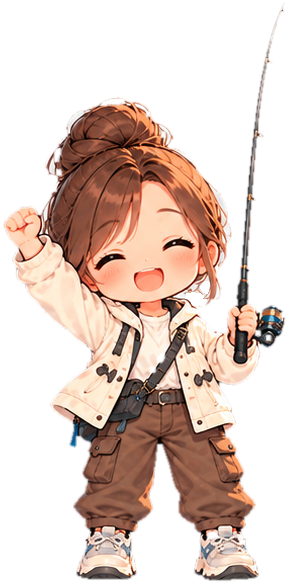
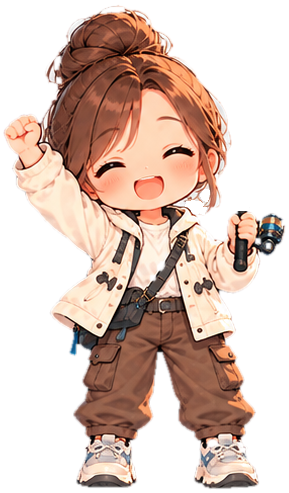
낚싯대와 줄을 모두 게임이 그린다 (찌낚시 대 모양 따르기)
- 모든 낚시 포즈 그림에서 손 위 대를 지우고 손잡이·방향·길이를 poses.json 에
- 빠른 액션: 아래 55% 는 곧고 위만 휜다. 당기면 대 끝 방향이 줄 쪽으로 이어진다
- 가이드 고리(대 아래, 끝으로 갈수록 작게)와 릴에서 고리를 거쳐 끝 고리로 나가는 원줄
- 느슨한 줄은 아래로 처지고 바람에 살랑, 팽팽하면 곧게
- 던지기 전에는 대 끝에 찌 채비가 매달려 흔들린다
- 대 몸통은 여울 그림 아래 층(FishingRodView)에 그려 손이 대를 쥔다

Claude-Session: https://claude.ai/code/session_01DoqJrkBDmBHtwhfXgYT1Wo

diff --git a/godot/scripts/Ui/FishingField.cs b/godot/scripts/Ui/FishingField.cs
@@ -78,9 +78,9 @@ namespace Hanjeopsi.App.Ui
         public bool RunWarn;
         public bool Bracing;
 
-        // 낚싯줄. 낚싯대는 SD 그림에 있고, 화면이 그림 속 대 끝 자리를 RodTip 에 넣어 준다
+        // 낚싯대 끝 (논리 좌표). 대를 그리면(RodDrawn) 여기서 계산하고, 아니면 화면이 그림 속 대 끝을 넣어 준다
         public Vector2 RodTip;
-        // 감기·버티기 포즈는 그림에서 대를 지웠다. 여기서 손잡이부터 그리고 텐션만큼 물고기 쪽으로 휜다 (RodTip 은 그린 대 끝)
+        // 포즈 그림에서는 대를 지웠다. 손잡이·방향·길이로 여기서 그리고 텐션만큼 물고기 쪽으로 휜다
         public bool RodDrawn;
         public Vector2 RodGrip;
         public Vector2 RodDir;
@@ -195,6 +195,7 @@ namespace Hanjeopsi.App.Ui
                 _trailTimer = 0.05f;
                 _trail.RemoveAt(_trail.Count - 1);
             }
+            ComputeRod();
             QueueRedraw();
         }
 
@@ -223,7 +224,6 @@ namespace Hanjeopsi.App.Ui
             foreach (var r in _rings) DrawRing(r);
             if (ShadowVisible) DrawShadow();
             if (BobberVisible) DrawBobber();
-            if (RodDrawn) DrawRod();
             DrawLine();
             if (ShadowVisible && RunDir != 0) DrawRunArrow();
             if (ShadowVisible && ShowStamina) DrawStamina();
@@ -574,104 +574,218 @@ namespace Hanjeopsi.App.Ui
             }
         }
 
-        /// <summary>
-        /// 낚싯대: 손잡이에서 뻗어 나가다 끝이 줄 쪽으로 휜다. 텐션이 셀수록 크게 휘고(활처럼), 위험하면 떨린다.
-        /// 끝 자리를 RodTip 에 넣어 줄이 거기서 나가게 한다
-        /// </summary>
-        private void DrawRod()
+        // ───────── 낚싯대와 줄 ─────────
+        //
+        // 대와 줄은 그림에 넣지 않고 여기서 그린다 (그림 속 가는 대 끝은 줄이면 사라져 줄이 허공에서 나왔다).
+        // 실제 찌낚시 대를 따른다:
+        // - 빠른 액션: 손잡이 쪽 절반 남짓은 곧고 위쪽만 휜다. 당기면 대 끝이 줄 쪽으로 휘어 줄과 매끈하게 이어진다
+        // - 가이드 고리는 대 아래(땅 쪽)에 달리고 끝으로 갈수록 작다. 원줄은 릴에서 고리들을 거쳐 끝 고리로 나간다
+        // - 느슨한 줄은 대 끝에서 아래로 처지고(바람에 살랑), 물고기가 당기면 곧게 선다
+        // - 던지기 전에는 대 끝에 찌 채비가 매달려 흔들린다
+        // 대 몸통은 여울 그림 아래(RodView)에 그려 손이 대를 쥔 것처럼 보이고, 대 끝에서 나가는 줄은 바다 위(여기)에 그린다
+
+        /// <summary>던지기 전: 대 끝에 찌가 매달려 흔들린다</summary>
+        public bool Dangle;
+
+        private readonly Vector2[] _rodPts = new Vector2[RodSegs + 1];
+        private bool _rodReady;
+        private const int RodSegs = 28;
+        /// <summary>가이드 고리 자리 (대 위 비율). 마지막은 끝 고리</summary>
+        private static readonly float[] GuideAt = { 0.3f, 0.45f, 0.58f, 0.7f, 0.8f, 0.89f, 1f };
+        private readonly Vector2[] _guideRing = new Vector2[GuideAt.Length];
+        private Vector2 _reelAt;
+
+        /// <summary>여울 그림 바로 아래에 끼울 대 그림 (ArtStage 안, 같은 좌표)</summary>
+        public Control MakeRodView()
         {
+            var v = new FishingRodView(this);
+            v.SetAnchorsAndOffsetsPreset(LayoutPreset.FullRect);
+            return v;
+        }
+
+        /// <summary>대 모양을 계산한다 (그리기 전에 매 프레임). 끝 자리를 RodTip 에 넣어 줄이 거기서 나가게 한다</summary>
+        private void ComputeRod()
+        {
+            _rodReady = false;
+            if (!RodDrawn || _stage == null || RodLen <= 0) return;
             float b = Mathf.Clamp(Bend, 0, 1.1f);
             var g = RodGrip;
             // 줄이 가는 쪽 (없으면 대 방향)
             var t = LineTo.HasValue ? (LineTo.Value - g).Normalized() : RodDir;
-            // 대 전체를 물고기 쪽으로 돌려 잡는다 (최대 35도). 손잡이 이음매는 그림 속 손에 묻힌다
+            // 당길 때는 대 전체를 물고기 쪽으로 조금 돌려 잡는다 (최대 35도)
             float turn = Mathf.Clamp(RodDir.AngleTo(t), -0.61f, 0.61f);
-            var d0 = RodDir.Rotated(turn * (Fighting ? 0.85f : 0.6f));
-            // 텐션 0 이어도 낚싯대 무게로 끝이 조금 숙인다
-            var droop = new Vector2(d0.X * 0.8f, d0.Y * 0.8f + 0.6f).Normalized();
-            // 팽팽할수록 대 끝이 물고기 쪽으로 활처럼 휜다 (끝에서 줄이 꺾이지 않게)
-            float k = Fighting ? 0.45f + 0.5f * Mathf.Min(1, b) : 0.3f;
-            var tipDir = droop.Lerp(t, k).Normalized();
-            float shake = (Fighting && b > 0.85f ? 0.025f : 0) + 0.07f * RodKick;
+            var d0 = RodDir.Rotated(turn * (Fighting ? 0.85f : 0.35f));
+            // 대 무게로 끝이 살짝 숙인다 (화면 아래 쪽)
+            var droop = (d0 + new Vector2(0, 0.28f)).Normalized();
+            // 팽팽할수록 대 끝이 줄 쪽으로 휜다. 찌를 띄워 둔 채 기다릴 때도 줄 무게만큼 조금
+            float k = Fighting ? 0.3f + 0.6f * Mathf.Min(1, b) : LineTo.HasValue ? 0.12f : 0;
+            var tipDir = droop.Slerp(t, k);
+            float shake = (Fighting && b > 0.85f ? 0.03f : 0) + 0.08f * RodKick;
             if (shake > 0) tipDir = tipDir.Rotated(Mathf.Sin(_time * 55) * shake);
-            float len = RodLen * (1 - 0.16f * Mathf.Min(1, b));
-            var tip = g + (d0 * 0.4f + tipDir * 0.6f).Normalized() * len;
-            var ctrl = g + d0 * len * 0.55f;
+            // 휠수록 끝이 손 쪽으로 당겨진다
+            float len = RodLen * (1 - 0.1f * Mathf.Min(1, b));
+            var mid = g + d0 * len * 0.55f;
+            var tip = mid + (d0 + tipDir).Normalized() * len * 0.45f;
             RodTip = tip;
+            // 손 안쪽에서 시작한다 (여울 그림 아래라 손에 가린다)
+            var butt = g - d0 * len * 0.1f;
+            var p0 = P(butt);
+            var p1 = P(mid);
+            var p2 = P(tip - tipDir * len * 0.2f);
+            var p3 = P(tip);
+            for (int i = 0; i <= RodSegs; i++)
+            {
+                float s = (float)i / RodSegs;
+                float r = 1 - s;
+                _rodPts[i] = r * r * r * p0 + 3 * r * r * s * p1 + 3 * r * s * s * p2 + s * s * s * p3;
+            }
+            // 가이드 고리: 대 아래(땅 쪽)에 짧은 다리로 달린다
+            float u = K / 2.4f;
+            for (int j = 0; j < GuideAt.Length; j++)
+            {
+                float f = GuideAt[j];
+                float fi = f * RodSegs;
+                int i = Mathf.Clamp((int)fi, 0, RodSegs - 1);
+                var at = _rodPts[i].Lerp(_rodPts[i + 1], fi - i);
+                _guideRing[j] = at + Down(_rodPts[i + 1] - _rodPts[i]) * (j == GuideAt.Length - 1 ? 0 : Mathf.Lerp(5.5f, 2.2f, f) * u);
+            }
+            // 릴은 손 아래, 대 아래쪽에 달려 있다 (그림 속 릴 자리 근처)
+            _reelAt = P(g - d0 * len * 0.05f) + Down(p1 - p0) * 9 * u;
+            _rodReady = true;
+        }
 
-            const int n = 24;
-            // 그림 속 손잡이 안쪽에서 시작해 이음매가 보이지 않게 한다
-            var butt = g - d0 * len * 0.05f;
-            var pts = Bezier(P(butt), P(ctrl), P(tip), n);
+        /// <summary>대 마디 방향에 수직인 두 쪽 중 화면 아래(땅) 쪽</summary>
+        private static Vector2 Down(Vector2 seg)
+        {
+            var n = new Vector2(-seg.Y, seg.X).Normalized();
+            return n.Y >= 0 ? n : -n;
+        }
+
+        /// <summary>대 몸통, 가이드 고리, 고리를 지나는 원줄 (RodView 가 여울 그림 아래에 그린다)</summary>
+        public void PaintRod(CanvasItem c)
+        {
+            if (!_rodReady) return;
             float u = K / 2.4f;
             var edge = new Color("1c1714");
             var body = new Color("3a322b");
-            // 굵은 손잡이 쪽에서 가는 끝으로 (조각마다 굵기를 줄인다). 처음 한 토막은 손잡이처럼 굵다
-            for (int i = 0; i < n; i++)
+            var gold = new Color("c9a24a");
+            // 손잡이 쪽 굵고 끝은 가늘다. 처음 한 토막은 코르크 손잡이처럼 굵다
+            for (int i = 0; i < RodSegs; i++)
             {
-                float f = (float)i / n;
-                float w = f < 0.1f ? 9f * u : Mathf.Lerp(7f, 1.8f, (f - 0.1f) / 0.9f) * u;
-                DrawLine(pts[i], pts[i + 1], edge, w + 1.8f * u, true);
-                DrawLine(pts[i], pts[i + 1], body, w, true);
+                float f = (float)i / RodSegs;
+                float w = f < 0.1f ? 8.5f * u : Mathf.Lerp(6.4f, 1.5f, (f - 0.1f) / 0.9f) * u;
+                c.DrawLine(_rodPts[i], _rodPts[i + 1], edge, w + 1.8f * u, true);
+                c.DrawLine(_rodPts[i], _rodPts[i + 1], body, w, true);
             }
-            // 손잡이 끝 금빛 고리 (손잡이와 대가 이어지는 자리)
-            int joint = Mathf.Clamp((int)(0.1f * n), 1, n);
-            DrawCircle(pts[joint], 4.6f * u, new Color("c9a24a"));
-            // 위쪽 빛 한 줄
-            for (int i = 3; i < n - 2; i++)
+            int joint = Mathf.Clamp((int)(0.1f * RodSegs), 1, RodSegs);
+            c.DrawCircle(_rodPts[joint], 4.4f * u, gold);
+            // 위쪽(빛 받는 쪽) 가는 빛 한 줄
+            for (int i = 3; i < RodSegs - 2; i++)
             {
-                var dir = (pts[i + 1] - pts[i]).Normalized();
-                var off = new Vector2(dir.Y, -dir.X) * Mathf.Lerp(1.8f, 0.5f, (float)i / n) * u;
-                DrawLine(pts[i] + off, pts[i + 1] + off, new Color(1, 0.95f, 0.85f, 0.28f), 1.2f * u, true);
+                var d = _rodPts[i + 1] - _rodPts[i];
+                var off = -Down(d) * Mathf.Lerp(1.6f, 0.4f, (float)i / RodSegs) * u;
+                c.DrawLine(_rodPts[i] + off, _rodPts[i + 1] + off, new Color(1, 0.95f, 0.85f, 0.26f), 1.1f * u, true);
             }
-            // 가이드 링 (금빛 작은 고리)
-            foreach (float f in new[] { 0.32f, 0.5f, 0.68f, 0.84f, 0.96f })
+            // 원줄: 릴에서 고리들을 차례로 지나 끝 고리까지 (고리 사이는 곧은 줄)
+            var line = new Vector2[GuideAt.Length + 1];
+            line[0] = _reelAt;
+            for (int j = 0; j < GuideAt.Length; j++) line[j + 1] = _guideRing[j];
+            c.DrawPolyline(line, LineColor(0.85f), 1.2f * Mathf.Max(1, u), true);
+            // 고리: 대에서 내려온 짧은 다리와 금빛 고리
+            for (int j = 0; j < GuideAt.Length; j++)
             {
-                int i = Mathf.Clamp((int)(f * n), 0, n);
-                DrawArc(pts[i], Mathf.Lerp(3.2f, 1.6f, f) * u, 0, Mathf.Tau, 10, new Color("c9a24a"), 1.3f * u, true);
+                float f = GuideAt[j];
+                float fi = f * RodSegs;
+                int i = Mathf.Clamp((int)fi, 0, RodSegs - 1);
+                var on = _rodPts[i].Lerp(_rodPts[i + 1], fi - i);
+                float r = Mathf.Lerp(3.4f, 1.5f, f) * u;
+                if (j < GuideAt.Length - 1) c.DrawLine(on, _guideRing[j], gold, 1.1f * u, true);
+                c.DrawArc(_guideRing[j], r, 0, Mathf.Tau, 12, gold, 1.2f * u, true);
             }
         }
 
+        /// <summary>원줄 색 (형광빛 도는 흰 나일론). 위험하면 금빛을 지나 빨갛게</summary>
+        private Color LineColor(float alpha = 0.92f)
+        {
+            var white = new Color(1, 1, 0.94f, alpha);
+            if (!Fighting) return white;
+            float bend = Mathf.Clamp(Bend, 0, 1.1f);
+            var hot = new Color(1f, 0.82f, 0.36f, 1f);
+            var danger = new Color(1f, 0.35f, 0.3f, 1f);
+            return bend < 0.85f ? white.Lerp(hot, Mathf.Clamp((bend - 0.6f) / 0.25f, 0, 1)) : hot.Lerp(danger, Mathf.Clamp((bend - 0.85f) / 0.15f, 0, 1));
+        }
+
         /// <summary>
-        /// 낚싯줄. 느슨하면 크게 처져 흔들리고, 팽팽할수록 곧게 펴진다.
-        /// 릴링 중(Fighting) 위험 가까이 가면 줄이 파르르 떨리고 금빛을 지나 빨갛게 달아오른다
+        /// 대 끝에서 나가는 줄. 느슨하면 아래로 처져(바람에 살랑) 찌까지 늘어지고, 팽팽할수록 곧게 선다.
+        /// 릴링 중(Fighting) 위험 가까이 가면 줄이 파르르 떨리고 금빛을 지나 빨갛게 달아오른다.
+        /// 던지기 전에는 대 끝에 찌 채비가 매달려 흔들린다
         /// </summary>
         private void DrawLine()
         {
-            if (LineTo == null) return;
-            var tip = P(RodTip);
-            var to = P(LineTo.Value);
             float u = K / 2.4f;
+            var tip = P(RodTip);
+            if (LineTo == null)
+            {
+                if (Dangle && _rodReady) DrawDangle(tip, u);
+                return;
+            }
+            var to = P(LineTo.Value);
             float bend = Mathf.Clamp(Bend, 0, 1.1f);
-            float slackness = Mathf.Clamp(1 - bend / 0.55f, 0, 1);
-            // 처짐: 느슨하면 깊게, 팽팽하면 거의 없다. 느슨할 때는 바람에 살랑인다
-            float sag = (6 + 64 * slackness * slackness) * u + Mathf.Sin(_time * 2.2f) * 6 * slackness * u;
-            // 줄은 늘 아래로 처진다 (대 끝에서 위로 솟지 않게 물고기 쪽으로 늘어진다)
-            var mid = (tip + to) / 2 + new Vector2(0, sag + (to - tip).Length() * 0.04f * slackness);
-            var pts = Bezier(tip, mid, to, 28);
+            float slack = Fighting ? Mathf.Clamp(1 - bend / 0.55f, 0, 1) : 1;
+            float len = (to - tip).Length();
+            // 처짐 깊이: 느슨하면 줄 길이의 1할쯤, 팽팽하면 거의 없다
+            float sag = (len * 0.1f + 8 * u) * slack * slack + 1.5f * u;
+            float sway = Mathf.Sin(_time * 1.7f) * len * 0.025f * slack;
+            const int n = 32;
+            var pts = new Vector2[n + 1];
+            for (int i = 0; i <= n; i++)
+            {
+                float t = (float)i / n;
+                float hump = 4 * t * (1 - t);
+                pts[i] = tip.Lerp(to, t) + new Vector2(sway * hump, sag * hump);
+            }
             // 팽팽하면 줄이 파르르 떨린다 (가운데가 가장 크게)
             float shiver = Fighting ? Mathf.Max(Mathf.Clamp((bend - 0.62f) / 0.3f, 0, 1), 0.6f * RodKick) : 0;
             if (shiver > 0)
             {
                 var dir = (to - tip).Normalized();
                 var nrm = new Vector2(-dir.Y, dir.X);
-                for (int i = 1; i < pts.Length - 1; i++)
+                for (int i = 1; i < n; i++)
                 {
-                    float t = (float)i / (pts.Length - 1);
+                    float t = (float)i / n;
                     pts[i] += nrm * Mathf.Sin(_time * 70 + t * 9) * Mathf.Sin(t * Mathf.Pi) * 3.2f * shiver * u;
                 }
             }
-            // 색: 흰색 → 금빛 → 빨강
-            var white = new Color(1, 1, 1, 0.92f);
-            var hot = new Color(1f, 0.82f, 0.36f, 1f);
-            var danger = new Color(1f, 0.35f, 0.3f, 1f);
-            var col = !Fighting ? white : bend < 0.85f ? white.Lerp(hot, Mathf.Clamp((bend - 0.6f) / 0.25f, 0, 1)) : hot.Lerp(danger, Mathf.Clamp((bend - 0.85f) / 0.15f, 0, 1));
-            float width = (Fighting ? 2.6f + 1.2f * Mathf.Clamp(bend, 0, 1) : 2.2f) * Mathf.Max(1, u);
+            float width = (Fighting ? 2.2f + 1.2f * Mathf.Clamp(bend, 0, 1) : 1.8f) * Mathf.Max(1, u);
             // 밝은 물 위에서도 보이게 어두운 테두리를 먼저
-            DrawPolyline(pts, new Color(0.05f, 0.12f, 0.18f, 0.35f), width + 2.4f * u, true);
-            DrawPolyline(pts, col, width, true);
-            // 위험하면 줄 둘레가 은은히 빛난다
-            if (Fighting && bend >= 0.85f) DrawPolyline(pts, new Color(danger, 0.25f + 0.15f * Mathf.Sin(_time * 18)), width + 6 * u, true);
+            DrawPolyline(pts, new Color(0.05f, 0.12f, 0.18f, 0.32f), width + 2.2f * u, true);
+            DrawPolyline(pts, LineColor(), width, true);
+            if (Fighting && bend >= 0.85f) DrawPolyline(pts, new Color(1f, 0.35f, 0.3f, 0.25f + 0.15f * Mathf.Sin(_time * 18)), width + 6 * u, true);
+        }
+
+        /// <summary>던지기 전: 대 끝에서 찌 채비가 곧게 매달려 천천히 흔들린다</summary>
+        private void DrawDangle(Vector2 tip, float u)
+        {
+            float swing = Mathf.Sin(_time * 1.9f) * 0.12f + Mathf.Sin(_time * 3.1f) * 0.04f;
+            var end = tip + new Vector2(Mathf.Sin(swing), Mathf.Cos(swing)) * 20 * K;
+            DrawLine(tip, end, new Color(0.05f, 0.12f, 0.18f, 0.32f), 3.6f * u, true);
+            DrawLine(tip, end, LineColor(), 1.6f * Mathf.Max(1, u), true);
+            // 찌 (가진 찌 그림이 있으면 그 그림, 작게)
+            var floatAt = tip.Lerp(end, 0.55f);
+            if (FloatTex != null)
+            {
+                float texH = FloatTex.GetHeight(), texW = FloatTex.GetWidth();
+                float h = 9 * K;
+                float w = texW * h / texH;
+                DrawTextureRect(FloatTex, new Rect2(floatAt - new Vector2(w / 2, h * 0.5f), new Vector2(w, h)), false);
+            }
+            else
+            {
+                DrawCircle(floatAt, 1.3f * K, Colors.White);
+                DrawCircle(floatAt + new Vector2(0, -1.2f * K), 1.2f * K, Palette.Red);
+            }
+            // 봉돌
+            DrawCircle(end, 1.6f * u * 2, new Color("4a4a4a"));
         }
 
         // ───────── 쿨러 ─────────

diff --git a/godot/scripts/Screens/FishingScreen.cs b/godot/scripts/Screens/FishingScreen.cs
@@ -218,6 +218,10 @@ namespace Hanjeopsi.App.Screens
             _field.SetAnchorsAndOffsetsPreset(LayoutPreset.FullRect);
             _field.GuiInput += OnFieldInput;
             Art.AddChild(_field);
+            // 낚싯대는 여울 그림 바로 아래 층에 그린다 (손이 대를 쥔 것처럼)
+            var rodView = _field.MakeRodView();
+            _stage.AddChild(rodView);
+            _stage.MoveChild(rodView, _yeoul.GetIndex());
 
             // ── 아래 안내판: 큰 글, 작은 글, 게이지 ──
             _panel = new PanelContainer { MouseFilter = MouseFilterEnum.Ignore };
@@ -497,6 +501,7 @@ namespace Hanjeopsi.App.Screens
             _field.BobberVisible = false;
             _field.ShadowVisible = false;
             _field.LineTo = null;
+            _field.Dangle = true;
             _field.Bend = 0;
             _field.Fighting = false;
             SetPose("fish-ready");
@@ -613,6 +618,7 @@ namespace Hanjeopsi.App.Screens
         private void Cast()
         {
             _dist01 = G.Reel.CastDistance(_gaugePos, Reach);
+            _field.Dangle = false;
             ShowThrow(false);
             if (!_tutorial)
             {

diff --git a/godot/scripts/Ui/FishingRodView.cs b/godot/scripts/Ui/FishingRodView.cs
@@ -1,0 +1,28 @@
+using Godot;
+
+namespace Hanjeopsi.App.Ui
+{
+    /// <summary>낚싯대 몸통 (FishingField 가 계산한 모양을 여울 그림 아래 층에 그린다)</summary>
+    public partial class FishingRodView : Control
+    {
+        private readonly FishingField _field;
+
+        public FishingRodView() { }
+
+        public FishingRodView(FishingField field)
+        {
+            _field = field;
+            MouseFilter = MouseFilterEnum.Ignore;
+        }
+
+        public override void _Process(double delta)
+        {
+            QueueRedraw();
+        }
+
+        public override void _Draw()
+        {
+            _field?.PaintRod(this);
+        }
+    }
+}
